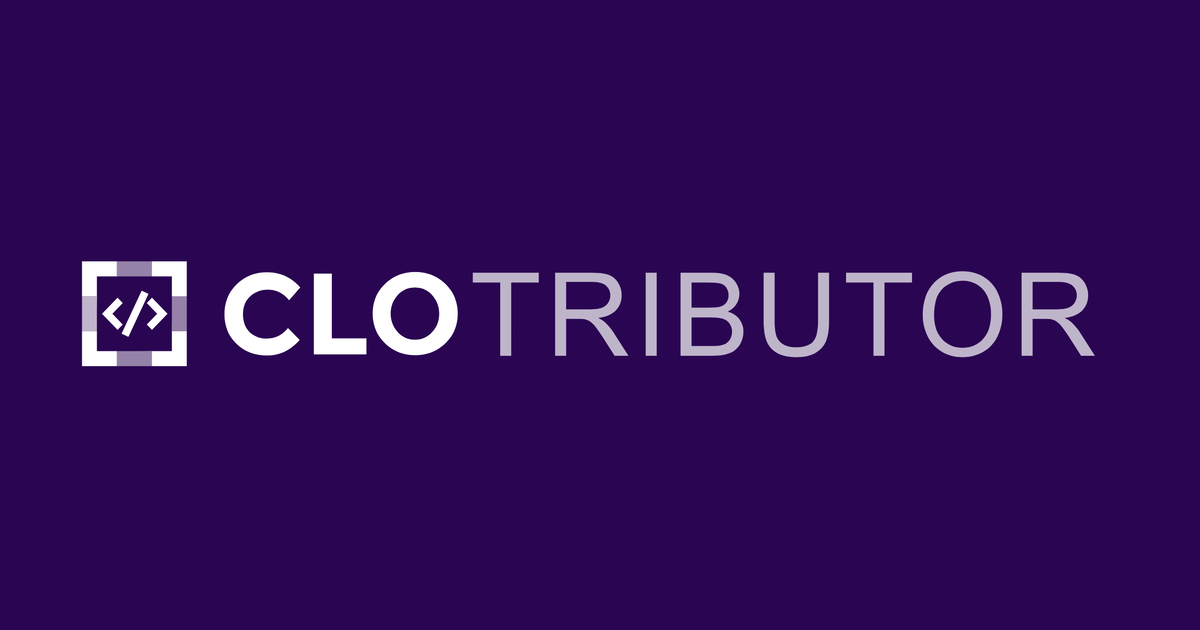
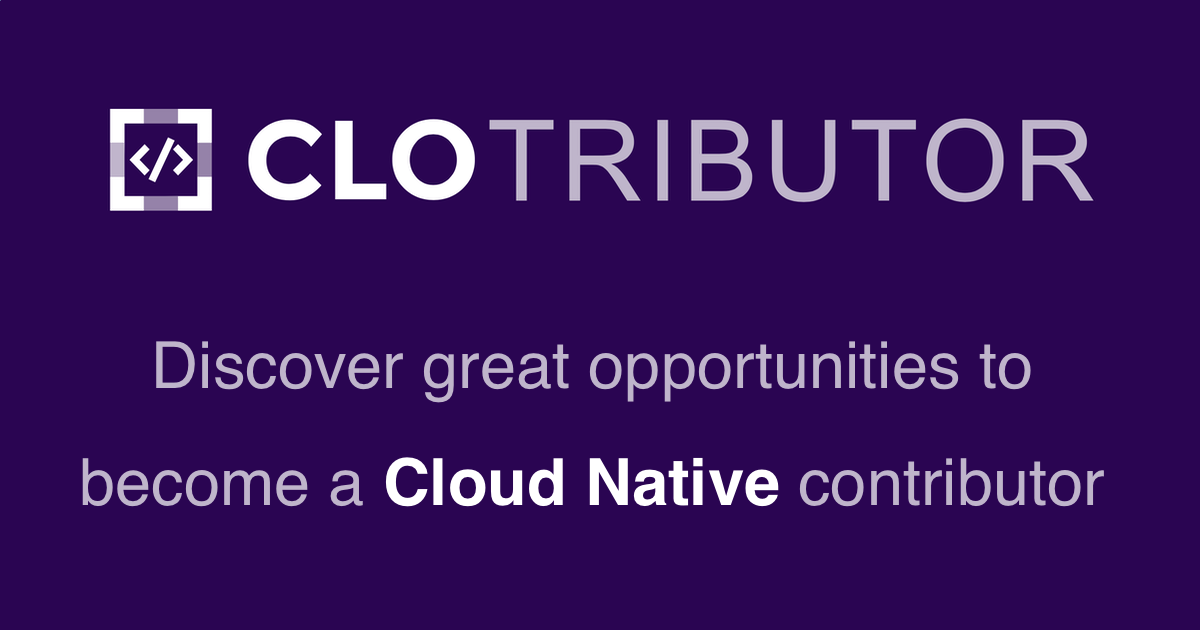
Update Open Graph image (#93)

Changed region(s): [[0.0617, 0.3921, 0.925, 0.6333], [0.0925, 0.1508, 0.925, 0.3619], [0.0617, 0.7238, 0.925, 0.8143]]

diff --git a/web/public/index.html b/web/public/index.html
@@ -17,7 +17,7 @@
     <meta name="twitter:card" content="summary_large_image" />
     <meta name="twitter:title" content="CLOTributor" />
     <meta name="twitter:description" content="CLOTributor makes it easier to discover great opportunities to become a Cloud Native contributor." />
-    <meta name="twitter:image:src" content="CLOTributor" />
+    <meta name="twitter:image:src" content="https://clotributor.dev/static/media/clotributor.png" />
   </head>
   <body>
     <noscript>You need to enable JavaScript to run this app.</noscript>
